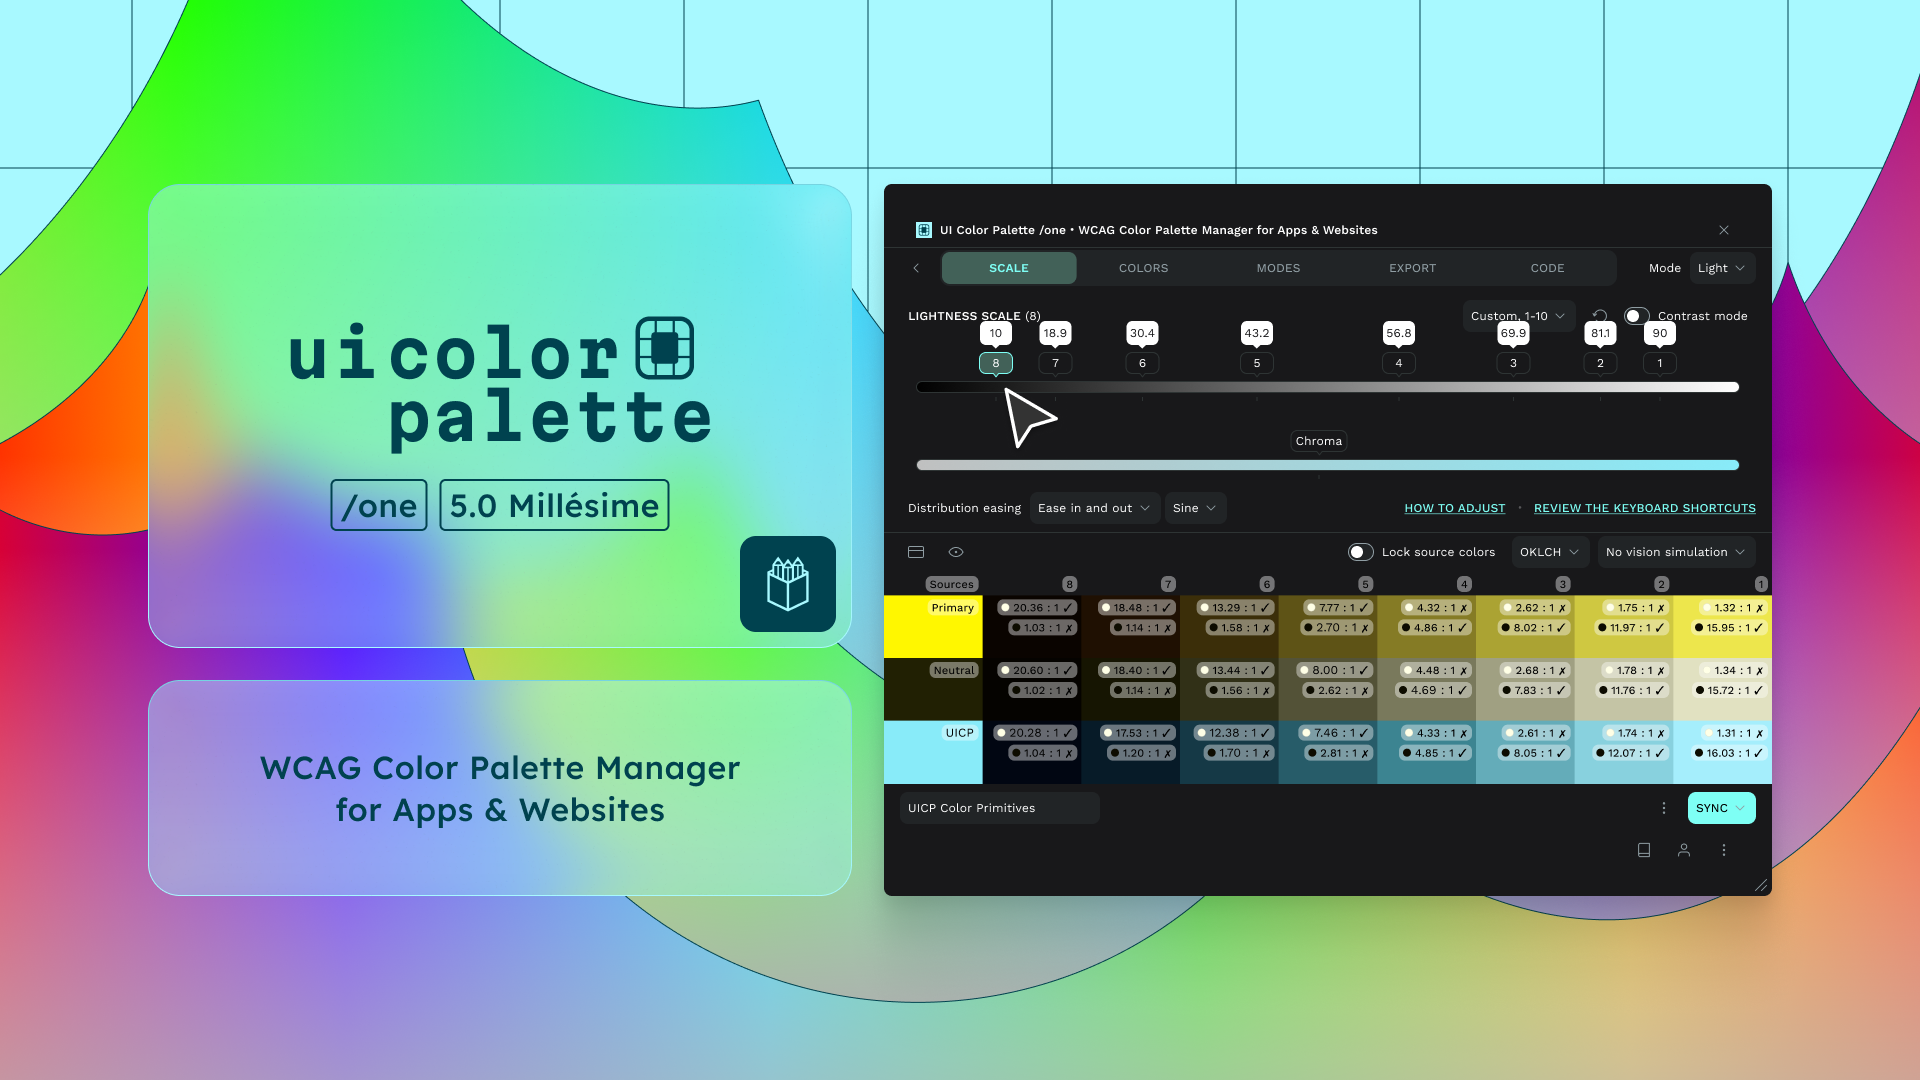
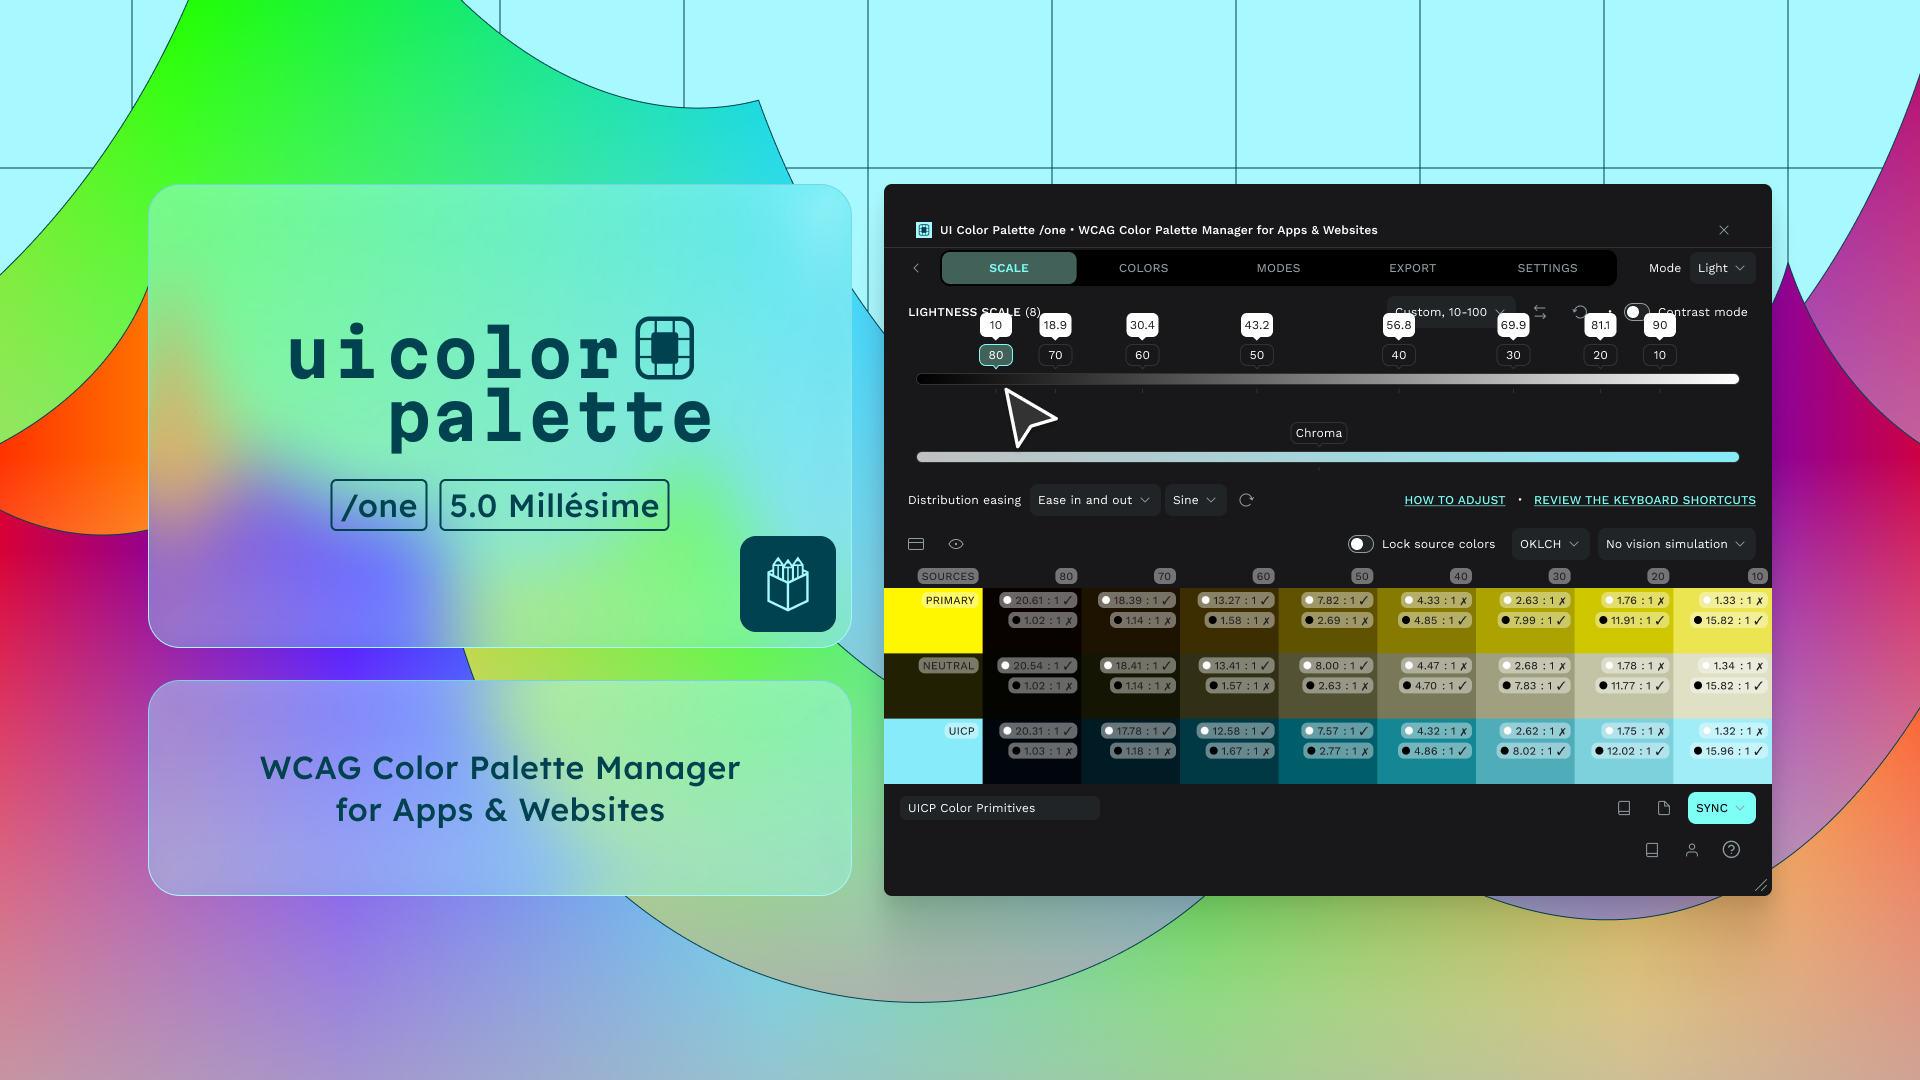
GITBOOK-8: v5.0.4

Changed region(s): [[0.4688, 0.3972, 0.9375, 0.7333], [0.4688, 0.2139, 0.9062, 0.3667], [0.875, 0.7639, 0.9062, 0.7944]]

diff --git a/penpot/guides/generate-a-color-palette-documentation.md b/penpot/guides/generate-a-color-palette-documentation.md
@@ -15,8 +15,6 @@ Currently, document generation may be slow depending on the complexity of the co
 {% step %}
 ## Generate a document of the palette
 
-<figure><img src="../.gitbook/assets/uicp-docs-figma-generate_document.png" alt=""><figcaption></figcaption></figure>
-
 Once the palette is finished, you can generate complete documentation of every shade and tint. Click the <i class="fa-ellipsis">:ellipsis:</i> icon in the bottom bar, then select `Generate a document` to access the available document types.
 
 {% hint style="info" %}
@@ -56,8 +54,6 @@ The palette will be named as referred:
 {% step %}
 ## Update a document if the palette has been too
 
-<figure><img src="../.gitbook/assets/uicp-docs-figma-update_document.png" alt=""><figcaption></figcaption></figure>
-
 Once you update your palette, click the <i class="fa-ellipsis">:ellipsis:</i> icon in the bottom bar, then `Push updates to the document`. The document will receive the updated metadata, shades, and tints.
 
 {% hint style="info" %}
@@ -68,15 +64,11 @@ Each time you update, each time you store an updated backup.
 {% step %}
 ## Update the document layout
 
-<figure><img src="../.gitbook/assets/uicp-docs-figma-update_layout.png" alt=""><figcaption></figcaption></figure>
-
 When a document is selected on the canvas and recognized as a "UI Color Palette", you can choose another layout of the list of 3 types (see [Generate a document of the palette](generate-a-color-palette-documentation.md#generate-a-document-of-the-palette)). Once selected, the document will transform its layout.&#x20;
 {% endstep %}
 
 {% step %}
 ## Open a palette from a select document
-
-<figure><img src="../.gitbook/assets/uicp-docs-figma-open_document.png" alt=""><figcaption></figcaption></figure>
 
 When a document is selected on the canvas and recognized as a "UI Color Palette", the controller allows you to access the related palette by clicking the `Open document` button.
 
@@ -87,8 +79,6 @@ Keep in mind, this is a shortcut because a document is an instance of the palett
 
 {% step %}
 ## Restore a palette
-
-<figure><img src="../.gitbook/assets/uicp-docs-figma-restore_palette.png" alt=""><figcaption></figcaption></figure>
 
 When a document is selected on the canvas and recognized as a "UI Color Palette", but the `Local Master` palette has not been found on the current page, you can store the palette from a backup stored in the document by clicking the `Restore palette` button.
 {% endstep %}

diff --git a/penpot/README.md b/penpot/README.md
@@ -17,6 +17,10 @@ This plugin will allow you to:
 * Generate code in various languages
 * Publish the palette for reuse across multiple documents or add shared palettes from the community
 
-For a quick start, you can refer to these pages:
+For a quick start, you can refer to this demo:
+
+{% embed url="https://app.supademo.com/demo/cmfgpta8gc8ei39ozrkk60sbq" %}
+
+And these pages:
 
 <table data-view="cards"><thead><tr><th></th><th data-hidden data-card-cover data-type="files"></th><th data-hidden data-card-target data-type="content-ref"></th></tr></thead><tbody><tr><td>How to select source colors</td><td><a href=".gitbook/assets/quick_start-source_colors.png">quick_start-source_colors.png</a></td><td><a href="guides/create-a-color-palette.md#select-and-or-import-the-source-colors">#select-and-or-import-the-source-colors</a></td></tr><tr><td>How to scale colors</td><td><a href=".gitbook/assets/quick_start-color_scaling.png">quick_start-color_scaling.png</a></td><td><a href="guides/create-a-color-palette.md#adjust-the-lightness-scale">#adjust-the-lightness-scale</a></td></tr><tr><td>How to change source colors</td><td><a href=".gitbook/assets/quick_start-change_source_colors.png">quick_start-change_source_colors.png</a></td><td><a href="guides/manage-a-color-palette.md#change-the-source-colors">#change-the-source-colors</a></td></tr><tr><td>How to create styles</td><td><a href=".gitbook/assets/quick_start-change_styles.png">quick_start-change_styles.png</a></td><td><a href="guides/sync-a-color-palette-to-the-local-library.md#sync-to-the-local-styles">#sync-to-the-local-styles</a></td></tr><tr><td>How to create tokens</td><td><a href=".gitbook/assets/quick_start-variables.png">quick_start-variables.png</a></td><td><a href="guides/sync-a-color-palette-to-the-local-library.md#export-tokens-and-import-them-as-tokens">#export-tokens-and-import-them-as-tokens</a></td></tr><tr><td>How to generate code</td><td><a href=".gitbook/assets/quick_start-code_gen.png">quick_start-code_gen.png</a></td><td><a href="guides/export-a-color-palette-to-code.md">export-a-color-palette-to-code.md</a></td></tr></tbody></table>

diff --git a/penpot/guides/create-a-color-palette.md b/penpot/guides/create-a-color-palette.md
@@ -20,7 +20,9 @@ You can select and import up to 5 colors on the <mark style="color:yellow;">`/ba
 
 ### Select colors from the document canvas
 
-Select one or more filled layers. You might rename these layers because the palette will use the layer name as a color name.&#x20;
+Select one or more filled layers. You might rename these layers because the palette will use the layer name as a color name.
+
+If no color is selected or imported, a default color is set and can be named and edited.
 
 {% hint style="info" %}
 Only frames, shapes are allowed to be turned into source colors if they have at least a solid color as `Fill`.
@@ -87,6 +89,8 @@ Update a stop by sliding its knob on the range. You can slide every knob by usin
 
 * <kbd>Cmd ⌘</kbd> (macOS) or <kbd>Ctrl ⌃</kbd> (Windows/Linux) while sliding any knob to move each of them in the desired direction
 * <kbd>Shift ⇪</kbd> while sliding the first or the last stop to distribute each of them equally on the range
+* <i class="fa-arrow-right-arrow-left">:arrow-right-arrow-left:</i> button to reverse the stops
+* <i class="fa-arrow-rotate-left">:arrow-rotate-left:</i> button to reset to the default scale
 
 In addition, you can adjust the `Chroma` of every scaled color from 0% (unsaturated) to 200% (oversaturated).
 
@@ -133,6 +137,10 @@ The easings are varied in three ways:
 * `Sine`
 * `Regular`
 * `Cubic`
+
+{% hint style="info" %}
+You can apply the distribution directly on the current scale by clicking the <i class="fa-arrow-rotate-right">:arrow-rotate-right:</i> button.
+{% endhint %}
 {% endstep %}
 
 {% step %}
